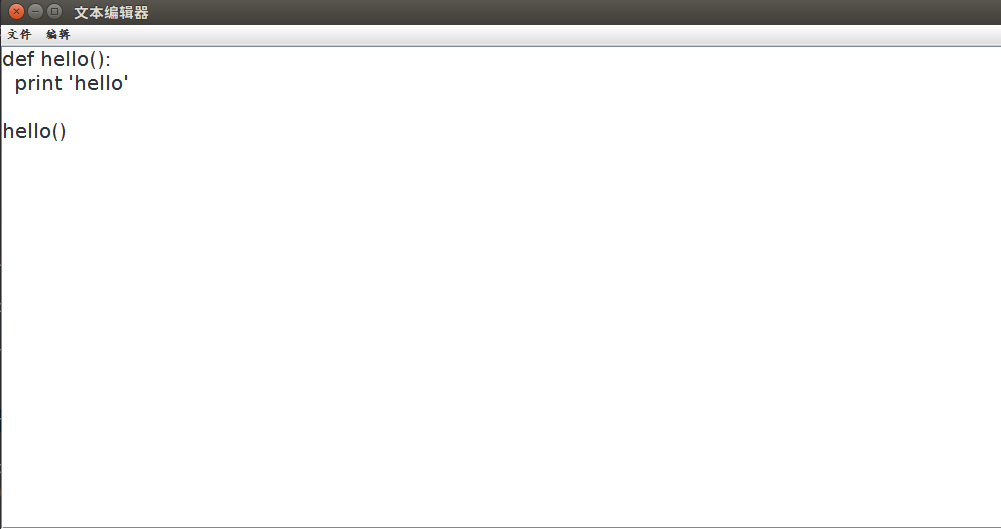
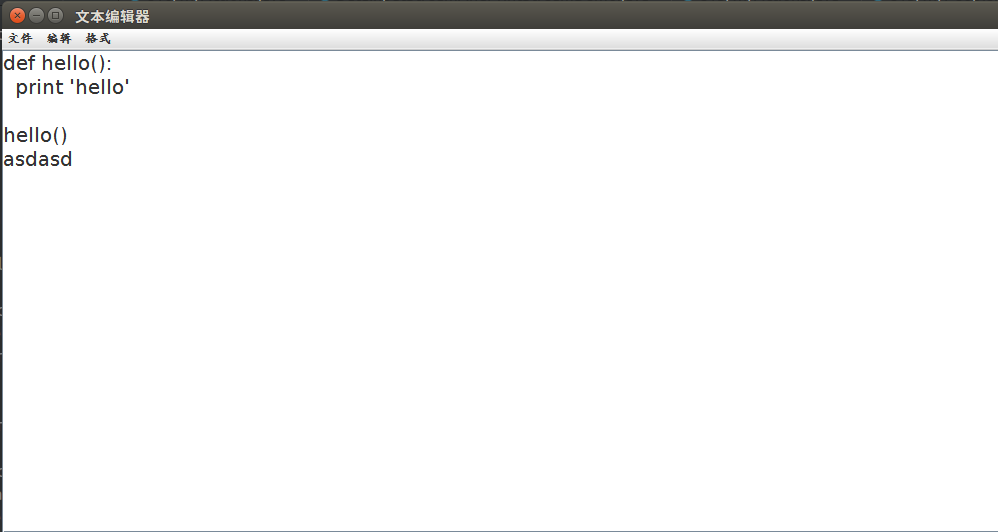
editor

Changed region(s): [[0.0, 0.0, 1.0, 0.1815], [0.0, 0.9679, 1.0, 1.0], [0.0, 0.2117, 0.0932, 0.3327]]

diff --git a/src/com/wfy/work4/ex/TextEditor.java b/src/com/wfy/work4/ex/TextEditor.java
@@ -11,26 +11,30 @@ public class TextEditor extends JFrame implements ActionListener {
     String fileName = "";
     JTextArea wen = new JTextArea(20, 50);
 
-    JMenuItem ziti = new JMenuItem("字体");
-    JMenuItem a = new JMenuItem("普通");
-    //定义菜单项  
-    JMenuItem xin = new JMenuItem("新建");
+    JMenuItem font = new JMenuItem("字体");
+    JMenuItem color = new JMenuItem("颜色");
+    //定义菜单项
+    JMenuItem newFile = new JMenuItem("新建");
     JMenuItem open = new JMenuItem("打开");
     JMenuItem save = new JMenuItem("保存 ");
-    JMenuItem lsave = new JMenuItem("另存为");
-    JMenuItem tui = new JMenuItem("退出");
+    JMenuItem saveAs = new JMenuItem("另存为");
+    JMenuItem exit = new JMenuItem("退出");
 
     JMenuItem cut = new JMenuItem("剪切 ");
     JMenuItem copy = new JMenuItem("复制");
     JMenuItem cast = new JMenuItem("粘贴");
     JMenuItem delete = new JMenuItem("删除 ");
 
-    JMenuItem b = new JMenuItem("粗体");
-    JMenuItem c = new JMenuItem("斜体");
+    JMenuItem normal = new JMenuItem("普通");
+    JMenuItem bold = new JMenuItem("粗体");
+    JMenuItem italic = new JMenuItem("斜体");
+
+    JMenuItem black = new JMenuItem("黑色");
+    JMenuItem red = new JMenuItem("红色");
+    JMenuItem blue = new JMenuItem("蓝色");
 
     TextEditor() {
         super("文本编辑器");
-        //小小对话框  
         setBounds(250, 100, 700, 450);
         setDefaultCloseOperation(DO_NOTHING_ON_CLOSE);
         addWindowListener(new WindowAdapter() {
@@ -47,7 +51,7 @@ public class TextEditor extends JFrame implements ActionListener {
             }
         });
         //热键设置  
-        xin.setAccelerator(KeyStroke.getKeyStroke(KeyEvent.VK_N, ActionEvent.CTRL_MASK));
+        newFile.setAccelerator(KeyStroke.getKeyStroke(KeyEvent.VK_N, ActionEvent.CTRL_MASK));
         open.setAccelerator(KeyStroke.getKeyStroke(KeyEvent.VK_O, ActionEvent.CTRL_MASK));
         save.setAccelerator(KeyStroke.getKeyStroke(KeyEvent.VK_S, ActionEvent.CTRL_MASK));
         cut.setAccelerator(KeyStroke.getKeyStroke(KeyEvent.VK_X, ActionEvent.CTRL_MASK));
@@ -59,38 +63,55 @@ public class TextEditor extends JFrame implements ActionListener {
         wen.setFont(new Font("楷体", Font.PLAIN, 20));
 
         //菜单栏的创建  
-        JMenuBar cai = new JMenuBar();
-        this.setJMenuBar(cai);
-        cai.setOpaque(true);
-        JMenu jian = new JMenu("文件");
-        jian.add(xin);
-        jian.add(open);
-        jian.add(save);
-        jian.add(lsave);
-        jian.addSeparator();
-        jian.add(tui);
-        cai.add(jian);
-        JMenu bian = new JMenu("编辑");
-        bian.add(cut);
-        bian.add(copy);
-        bian.add(cast);
-        bian.add(delete);
-        cai.add(bian);
+        JMenuBar menuBar = new JMenuBar();
+        this.setJMenuBar(menuBar);
+        menuBar.setOpaque(true);
+        JMenu fileMenu = new JMenu("文件");
+        fileMenu.add(newFile);
+        fileMenu.add(open);
+        fileMenu.add(save);
+        fileMenu.add(saveAs);
+        fileMenu.addSeparator();
+        fileMenu.add(exit);
+        menuBar.add(fileMenu);
+        JMenu editMenu = new JMenu("编辑");
+        editMenu.add(cut);
+        editMenu.add(copy);
+        editMenu.add(cast);
+        editMenu.add(delete);
+        menuBar.add(editMenu);
+
+        JMenu format = new JMenu("格式");
+        JMenu optionsMenu = new JMenu("字体");
+        JMenu colorOptionsMenu = new JMenu("颜色");
+        format.add(optionsMenu);
+        format.add(colorOptionsMenu);
+        optionsMenu.add(normal);
+        optionsMenu.add(bold);
+        optionsMenu.add(italic);
+        colorOptionsMenu.add(black);
+        colorOptionsMenu.add(red);
+        colorOptionsMenu.add(blue);
+        menuBar.add(format);
 
         //增加监听器
-        xin.addActionListener(this);
+        newFile.addActionListener(this);
         open.addActionListener(this);
         save.addActionListener(this);
-        lsave.addActionListener(this);
-        tui.addActionListener(this);
+        saveAs.addActionListener(this);
+        exit.addActionListener(this);
         cut.addActionListener(this);
         copy.addActionListener(this);
         cast.addActionListener(this);
         delete.addActionListener(this);
-        ziti.addActionListener(this);
-        a.addActionListener(this);
-        b.addActionListener(this);
-        c.addActionListener(this);
+        font.addActionListener(this);
+        color.addActionListener(this);
+        normal.addActionListener(this);
+        bold.addActionListener(this);
+        italic.addActionListener(this);
+        black.addActionListener(this);
+        blue.addActionListener(this);
+        red.addActionListener(this);
     }
 
     public static void main(String[] args) {
@@ -102,13 +123,13 @@ public class TextEditor extends JFrame implements ActionListener {
     //重写方法
     public void actionPerformed(ActionEvent e) {
         String actionCommand = e.getActionCommand();
-        if (e.getSource() == xin) {
+        if (e.getSource() == newFile) {
             newfile();
         } else if (e.getSource() == open) {
             openfile();
         } else if (e.getSource() == save) {
             savefile();
-        } else if (e.getSource() == lsave) {
+        } else if (e.getSource() == saveAs) {
             lsavefile();
         } else if (e.getSource() == cut) {
             cutfile();
@@ -118,6 +139,12 @@ public class TextEditor extends JFrame implements ActionListener {
             castfile();
         } else if (e.getSource() == delete) {
             deletefile();
+        } else if (e.getSource() == normal) {
+            afile();
+        } else if (e.getSource() == bold) {
+            bfile();
+        } else if (e.getSource() == italic) {
+            cfile();
         } else if ("退出".equals(actionCommand)) {
             System.exit(0);
         }
@@ -253,5 +280,19 @@ public class TextEditor extends JFrame implements ActionListener {
         int len = wen.getSelectedText().length();
         tmp.delete(start, start + len);
         wen.setText(tmp.toString());
+    }
+
+    //字体
+    public void afile() {
+        wen.setFont(new Font("楷体", Font.PLAIN, wen.getFont().getSize()));//普通文字
+    }
+
+    public void bfile() {
+        wen.setFont(new Font("楷体", Font.BOLD, wen.getFont().getSize()));//粗体文字
+
+    }
+
+    public void cfile() {
+        wen.setFont(new Font("楷体", Font.ITALIC, wen.getFont().getSize()));//斜体文字
     }
 }
